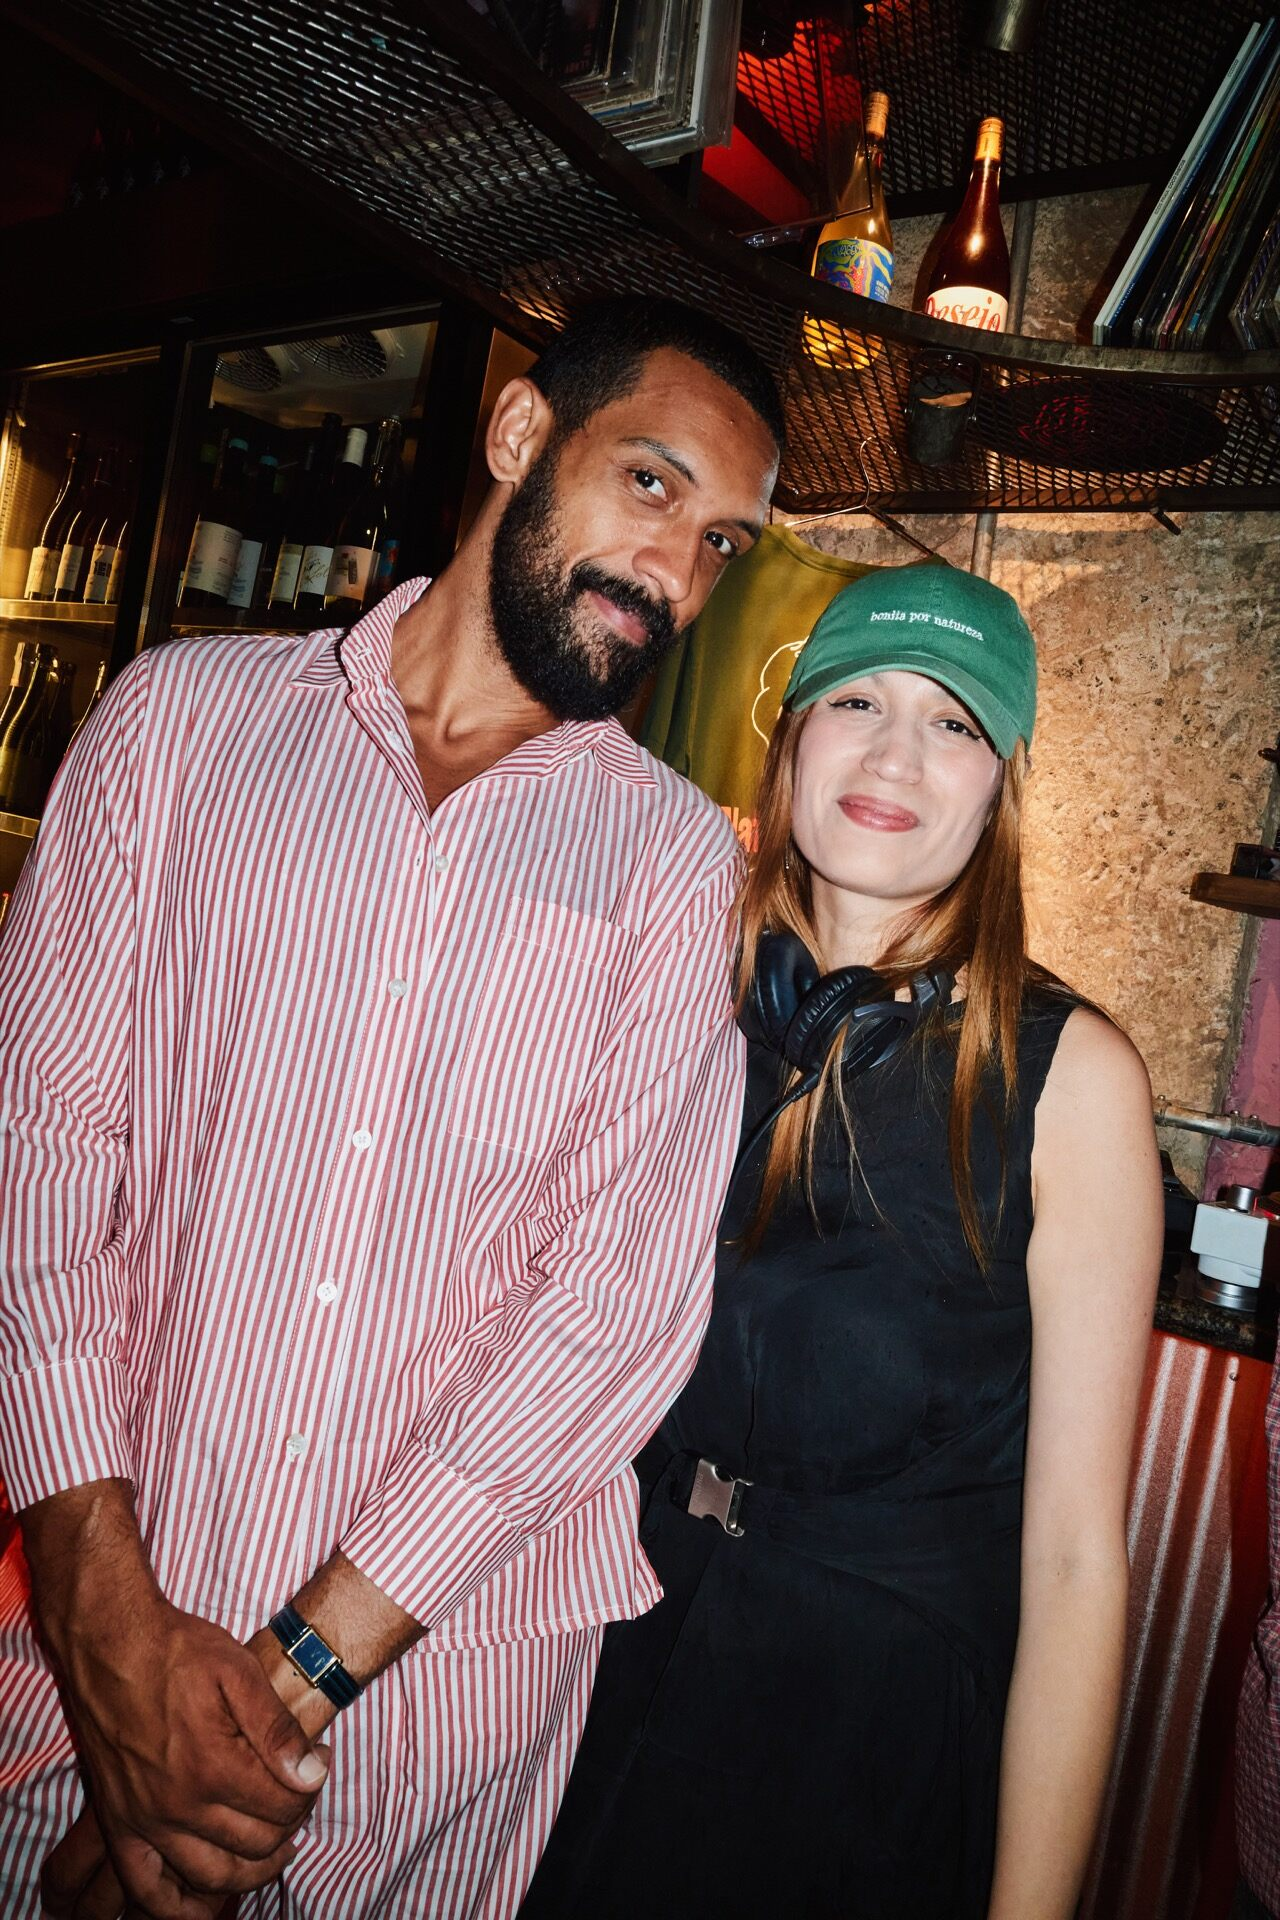
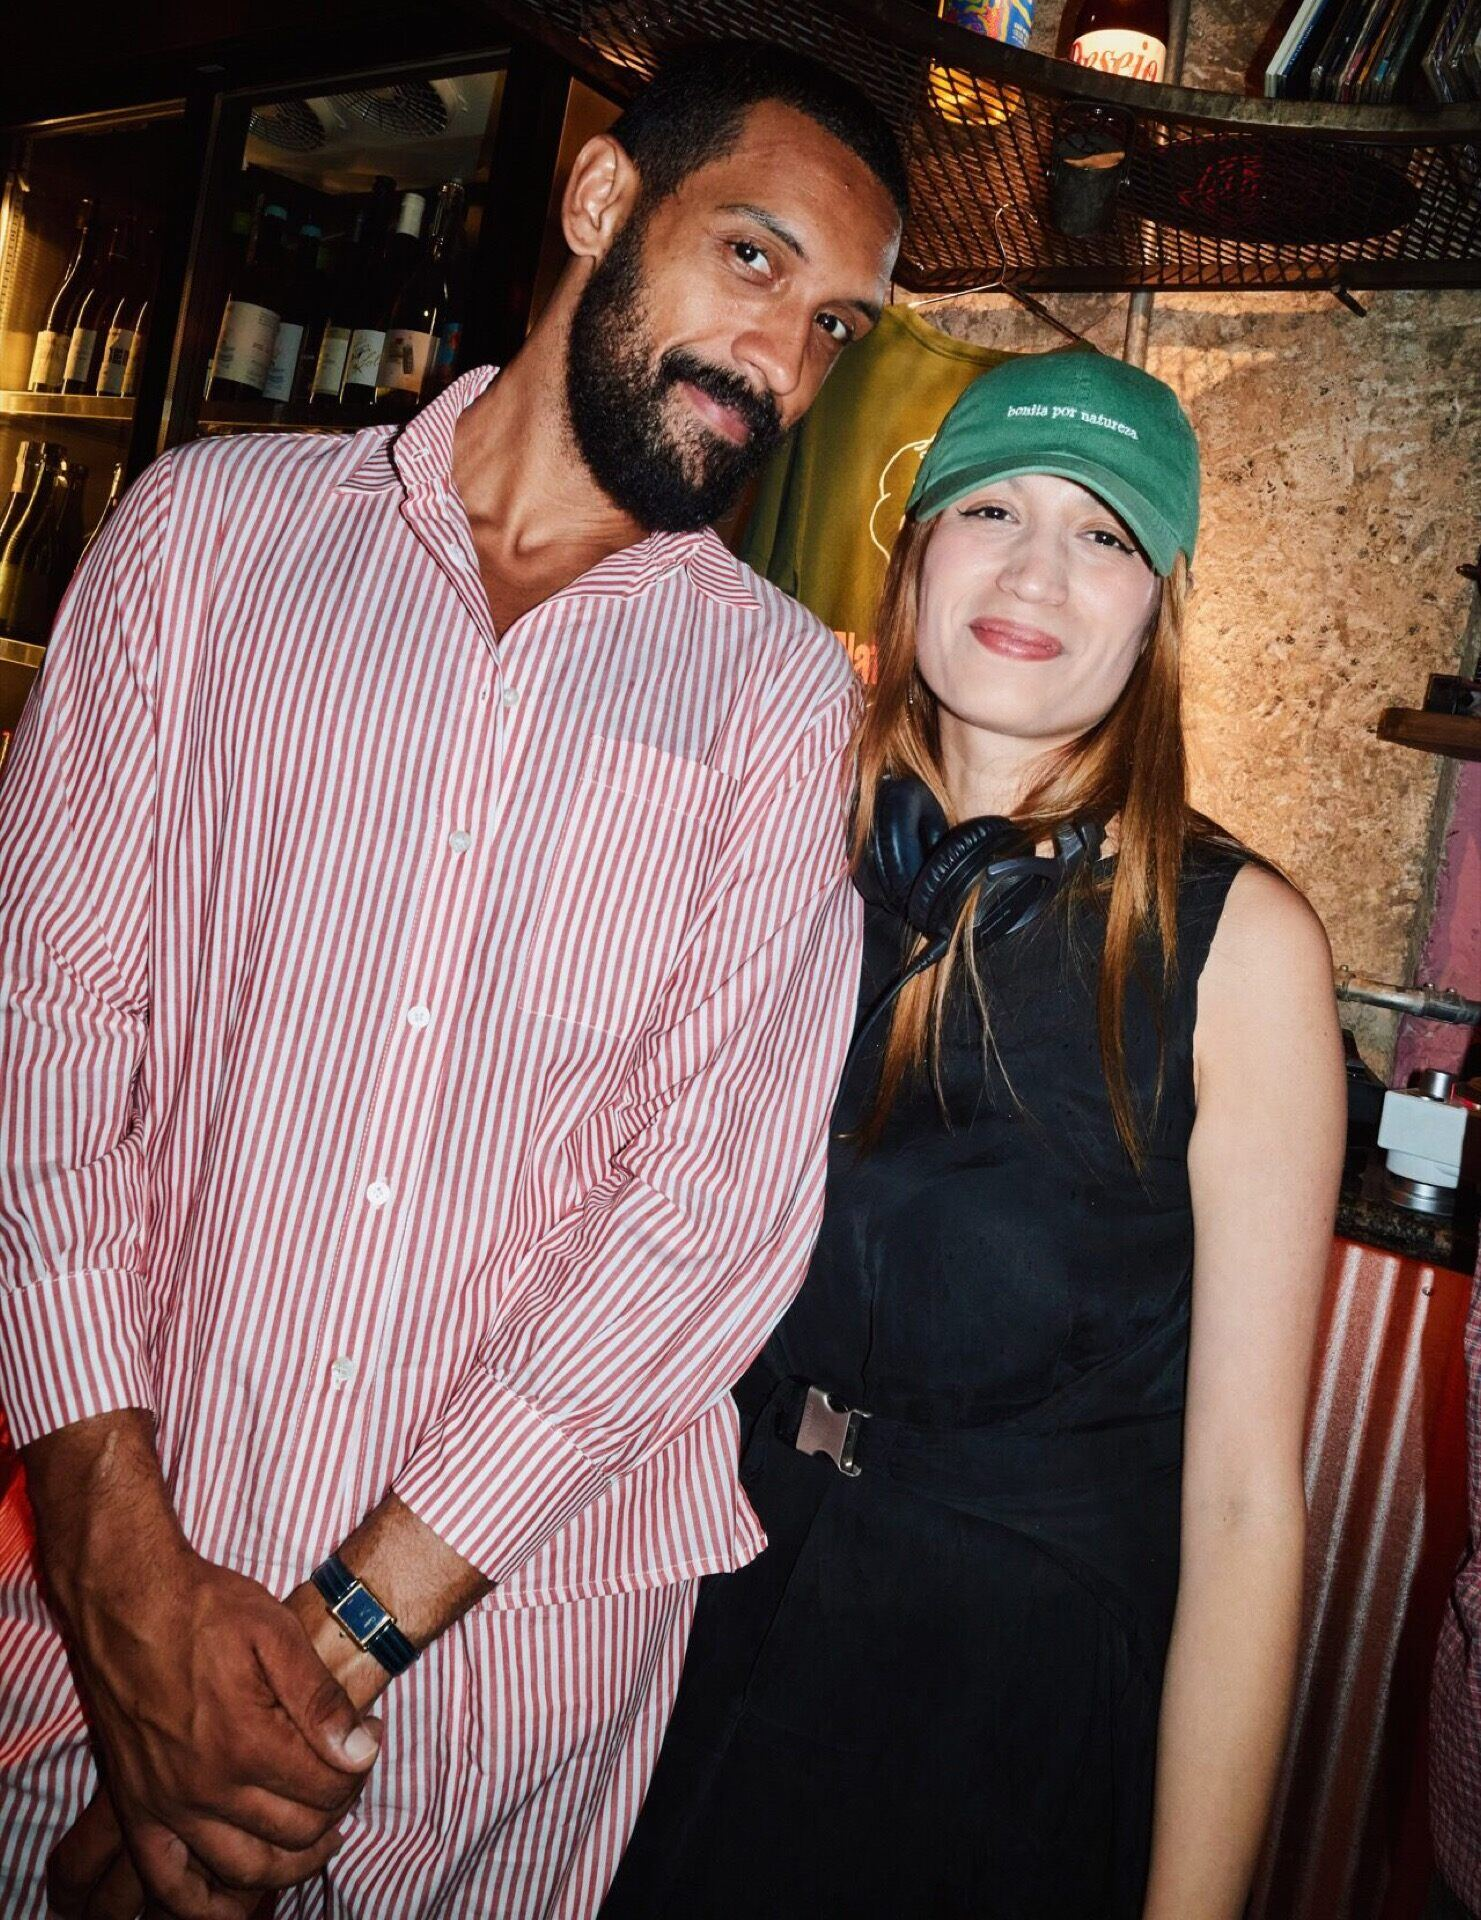
Sync projetos gallery with local img and refresh homepage copy.
Align js/main.js DJ slides with on-disk assets (04-a.jpeg, drop stale 09.jpeg), compress djs/11.jpg for deploy, and update Vinhos/Eventos frame descriptions in index.html.

diff --git a/index.html b/index.html
@@ -121,7 +121,7 @@
             </div>
             <div class="frame-caption">
               <h3 class="frame-title">Collabs</h3>
-              <p class="frame-desc">Criamos vinhos próprios em collab com pequenos produtores brasileiros.</p>
+              <p class="frame-desc">Produzimos vinhos em collab com pequenos produtores brasileiros.</p>
             </div>
           </article>
 
@@ -131,7 +131,7 @@
             </div>
             <div class="frame-caption">
               <h3 class="frame-title">Eventos</h3>
-              <p class="frame-desc">Projetos autorais e eventos corporativos iluminam a casa.</p>
+              <p class="frame-desc">Projetos autorais e eventos corporativos.</p>
             </div>
           </article>
 

diff --git a/js/main.js b/js/main.js
@@ -53,12 +53,12 @@
         { file: '01.jpg', objectPosition: 'center top' },
         { file: '02.jpg', objectPosition: 'center 5%' },
         { file: '03.jpg', objectPosition: 'center 5%' },
+        { file: '04-a.jpeg', objectPosition: 'center 5%' },
         { file: '04.jpg', objectPosition: 'center 8%' },
         { file: '05.jpg', objectPosition: 'center 5%' },
         { file: '06.jpeg', objectPosition: 'center 5%' },
         { file: '07.jpg', objectPosition: 'center 5%' },
         '08.jpg',
-        { file: '09.jpeg', objectPosition: 'center 5%' },
         { file: '10.jpg', objectPosition: 'center 5%' },
         { file: '11.jpg', objectPosition: 'center 5%' },
       ],